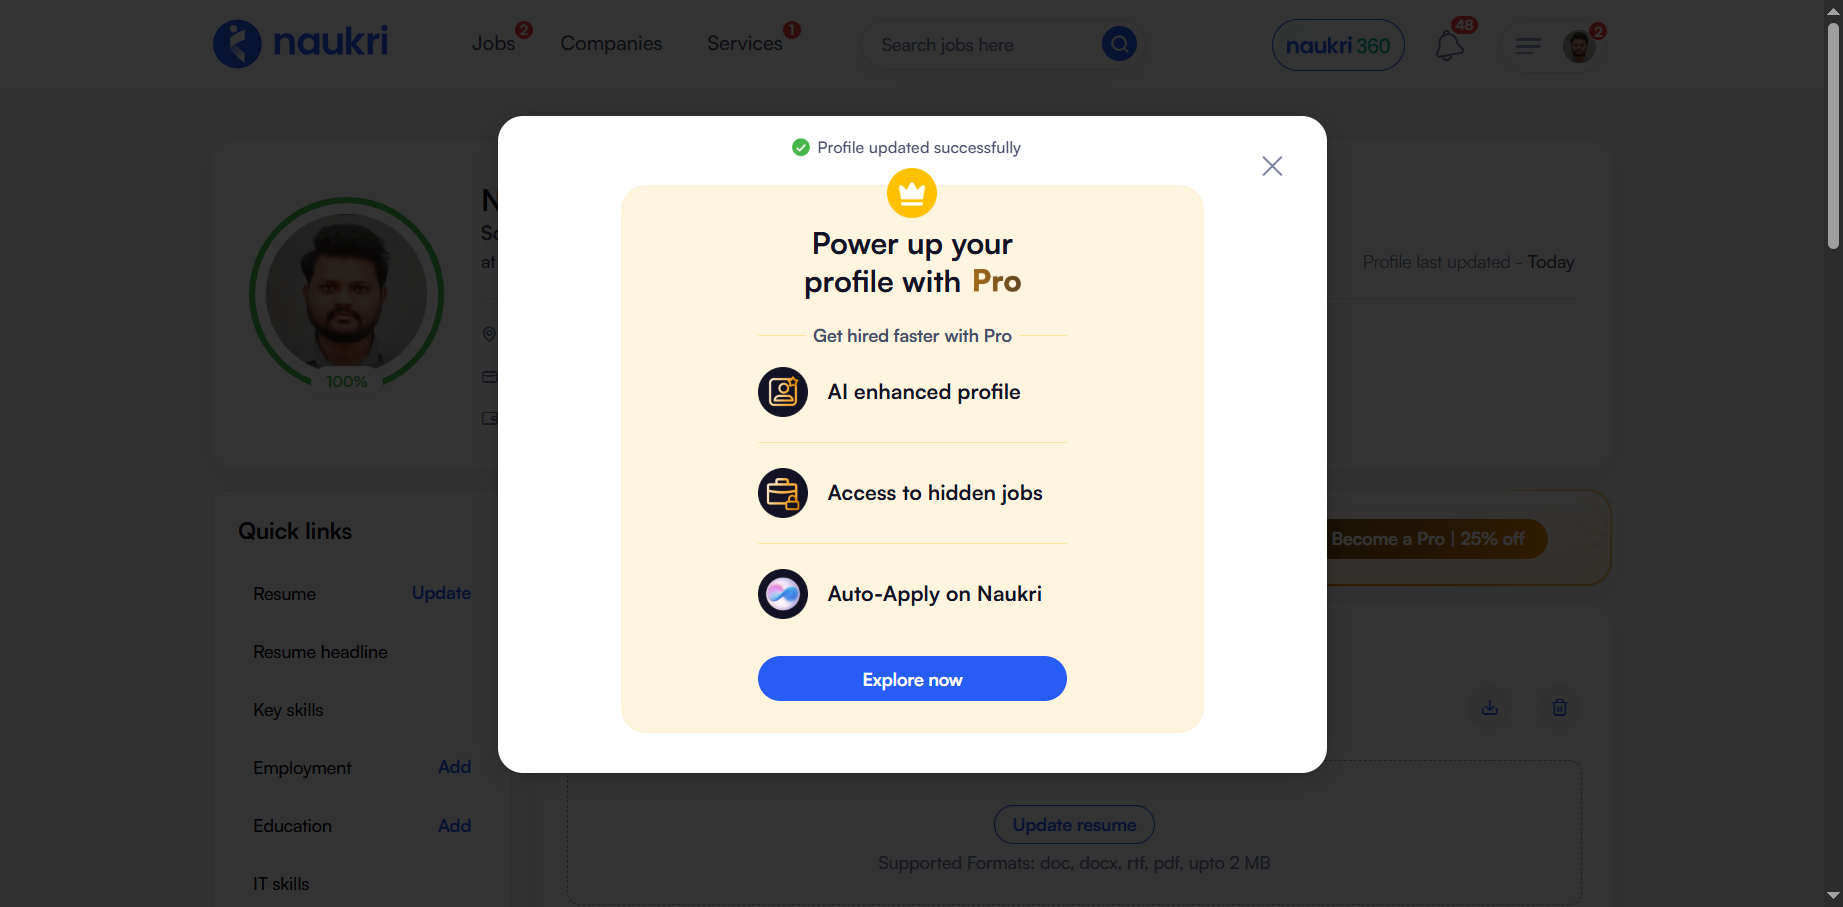
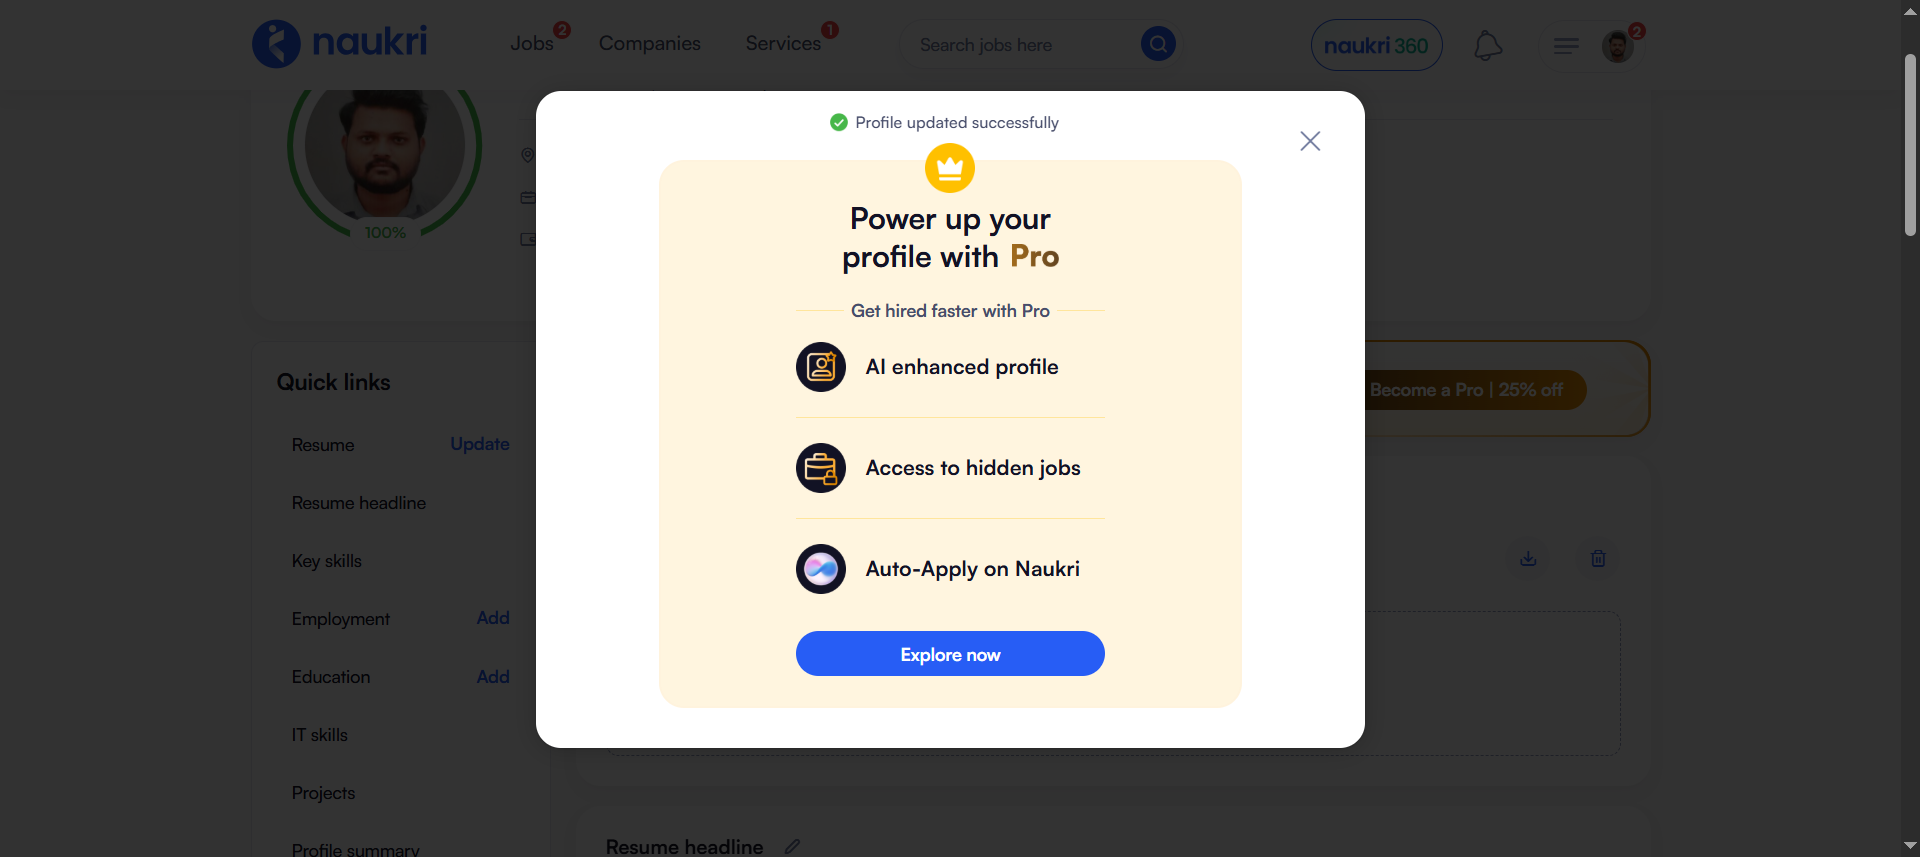
share interest

diff --git a/test/test_update.py b/test/test_update.py
@@ -10,24 +10,13 @@ from Utilities.readconfiguration import read_configuration
 
 def test_login(setup):
     driver = setup
-    url = read_configuration("basic info","url")
+
     login_xpath = read_configuration("xpath",'login_btn')
     driver.implicitly_wait(15)
     wait = WebDriverWait(driver,10)
-    driver.get(url)
+
     time.sleep(10)
-    driver.get_screenshot_as_file(r"C:\Users\ADMIN\PycharmProjects\PythonProject\screenshots\url_load.png")
-    wait.until(EC.element_to_be_clickable((By.XPATH, "//a[@id='login_Layer']"))).click()
-    #driver.find_element(By.XPATH,login_xpath).click()
-    username_xpath = read_configuration("xpath","username")
-    username = read_configuration("login","username")
-    pass_xpath = read_configuration("xpath","pass")
-    password = read_configuration("login","pass")
 
-
-    wait.until(EC.visibility_of_element_located((By.XPATH,username_xpath))).send_keys(username)
-    wait.until(EC.visibility_of_element_located((By.XPATH,pass_xpath))).send_keys(password)
-    wait.until(EC.visibility_of_element_located((By.XPATH,"//button[normalize-space()='Login']"))).click()
     #driver.find_element(By.XPATH,"//button[normalize-space()='Login']").click()
     time.sleep(10)
 
@@ -53,6 +42,31 @@ def test_login(setup):
     driver.get_screenshot_as_file(r"C:\Users\ADMIN\PycharmProjects\PythonProject\screenshots\profile_updated.png")
     driver.find_element(By.XPATH,"//div[contains(@class,'profileUpdatedProLayer')]//child::span[normalize-space()='CrossLayer']").click()
 
+    time.sleep(10)
+
+def test_share_interest(setup):
+    driver = setup
+    driver.implicitly_wait(15)
+    driver.find_element(By.XPATH,"//a[starts-with(@class,'spc__view')]").click()
+    driver.get_screenshot_as_file(r"C:\Users\ADMIN\PycharmProjects\PythonProject\screenshots\share_interest.png")
+    time.sleep(2)
+    wait = WebDriverWait(driver,15)
     time.sleep(15)
+    share_interest = driver.find_elements(By.XPATH,"//button[normalize-space()='Share interest']")
+
+    print(len(share_interest))
+    #wait.until(EC.visibility_of_element_located((By.XPATH,"Share interest")))
+    count = 0
+    for i in range(len(share_interest)):
+        wait.until(EC.visibility_of_element_located((By.XPATH,"//button[normalize-space()='Share interest']"))).click()
+        driver.get_screenshot_as_file(r"C:\Users\ADMIN\PycharmProjects\PythonProject\screenshots\shared_clicked.png")
+        time.sleep(2)
+        driver.back()
+        time.sleep(2)
+
+        count+=1
+        if count ==5:
+            break
 
 
+    time.sleep(15)

diff --git a/test/conftest.py b/test/conftest.py
@@ -1,7 +1,11 @@
+import time
+
 import pytest
 from selenium import webdriver
 from selenium.webdriver.chrome.options import Options
 from selenium.webdriver.common.by import By
+from selenium.webdriver.support.wait import WebDriverWait
+from selenium.webdriver.support import expected_conditions as EC
 
 from Utilities.readconfiguration import read_configuration
 
@@ -15,18 +19,30 @@ def setup():
         "profile.password_manager_service":False,
         "profile.password_manager_leak_detection":False
     }
-    opt.add_argument("--headless=new")
     opt.add_experimental_option("prefs",pref)
-
+    url = read_configuration("basic info","url")
     if browser.__eq__("Chrome"):
         driver = webdriver.Chrome(options=opt)
         driver.maximize_window()
+        driver.get(url)
+        wait = WebDriverWait(driver, 10)
+        driver.get_screenshot_as_file(r"C:\Users\ADMIN\PycharmProjects\PythonProject\screenshots\url_load.png")
+        wait.until(EC.element_to_be_clickable((By.XPATH, "//a[@id='login_Layer']"))).click()
+        #driver.find_element(By.XPATH,login_xpath).click()
+        username_xpath = read_configuration("xpath","username")
+        username = read_configuration("login","username")
+        pass_xpath = read_configuration("xpath","pass")
+        password = read_configuration("login","pass")
 
 
+        wait.until(EC.visibility_of_element_located((By.XPATH,username_xpath))).send_keys(username)
+        wait.until(EC.visibility_of_element_located((By.XPATH,pass_xpath))).send_keys(password)
+        wait.until(EC.visibility_of_element_located((By.XPATH,"//button[normalize-space()='Login']"))).click()
 
     yield driver
 
     driver.implicitly_wait(15)
     driver.find_element(By.XPATH,"//img[@class='nI-gNb-icon-img']").click()
     driver.find_element(By.XPATH,"//a[@title='Logout']").click()
+    time.sleep(10)
     driver.quit()
